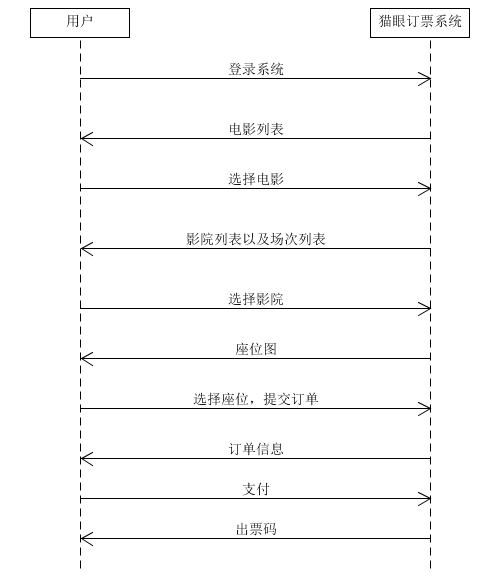
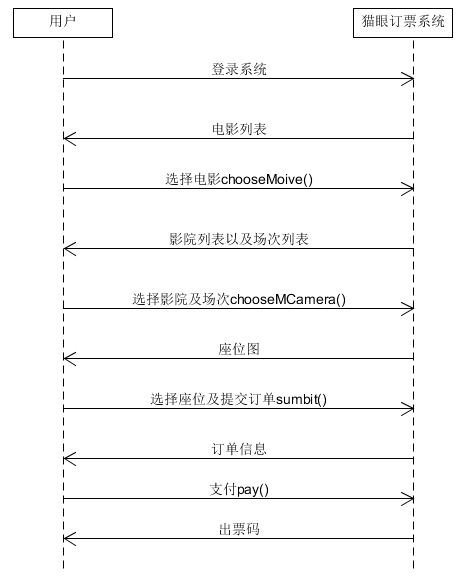
sad hw7 v2

Changed region(s): [[0.1199, 0.0, 0.9893, 0.9829], [0.0899, 0.0307, 0.1799, 0.0614], [0.2398, 0.0, 0.2698, 0.0614]]

diff --git a/_posts/2018-05-11-assigment7.md b/_posts/2018-05-11-assigment7.md
@@ -14,7 +14,7 @@ tags: 课程作业
    
    文档链接
 
-   [@doc](https://linjinghua.github.io/application-description/)
+   [@链接](https://linjinghua.github.io/application-description/)
 
    用例图
 
@@ -35,3 +35,36 @@ tags: 课程作业
    系统顺序图
 
    ![1e](../assets/sad/hw7/sequence.png)
+
+   操作协议
+   
+   契约CO1：选择电影
+      * 操作 ：selectMoive()
+      * 交叉引用
+      * 前置条件：无
+      * 后置条件：
+         * 电影信息被关联到订单中
+         * 猫眼订票系统返回影院和场次列表供用户选择影院及场次
+
+    契约CO2：选择影院及场次
+      * 操作 ：selectCamera()
+      * 交叉引用
+      * 前置条件：用户已选择电影
+      * 后置条件：
+         * 影院及场次被关联到订单中
+         * 猫眼订票系统返回座位图供用户选择座位
+
+    契约CO3：选择座位及提交订单
+      * 操作 ：submit()
+      * 交叉引用
+      * 前置条件：用户已选择电影、影院及场次
+      * 后置条件：
+         * 座位信息被关联到订单中
+         * 猫眼订票系统返回订单支付界面
+
+    契约CO4：支付
+      * 操作 ：pay()
+      * 交叉引用
+      * 前置条件：用户已选择电影、影院及场次、座位
+      * 后置条件：
+         * 如支付成功，则猫眼订票系统返回出票码
